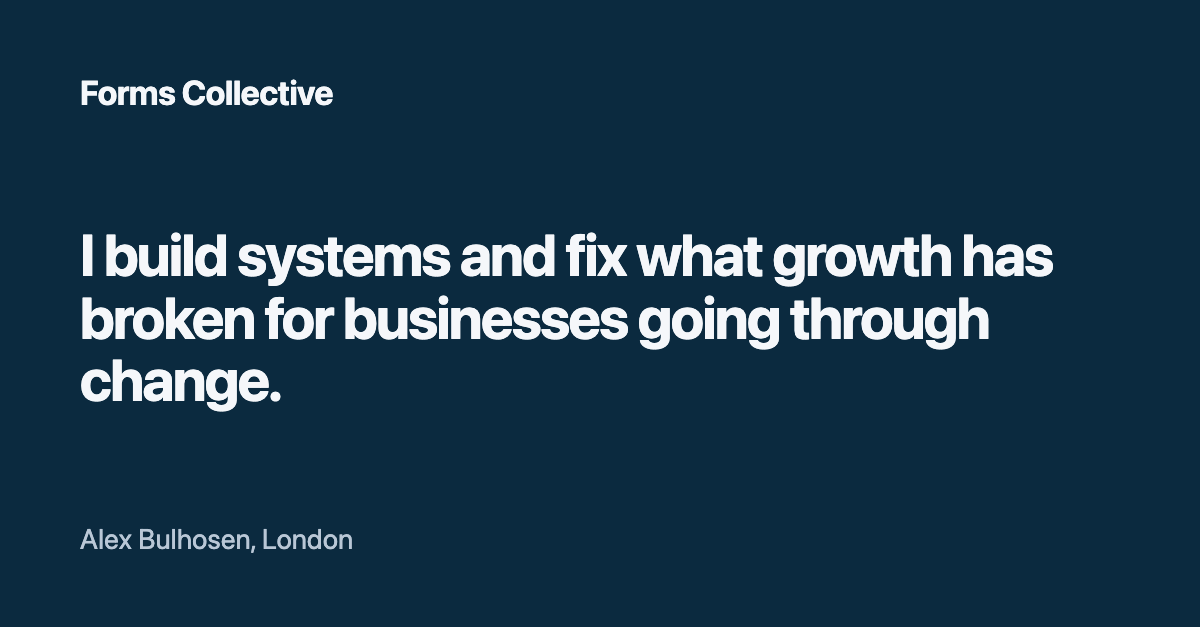
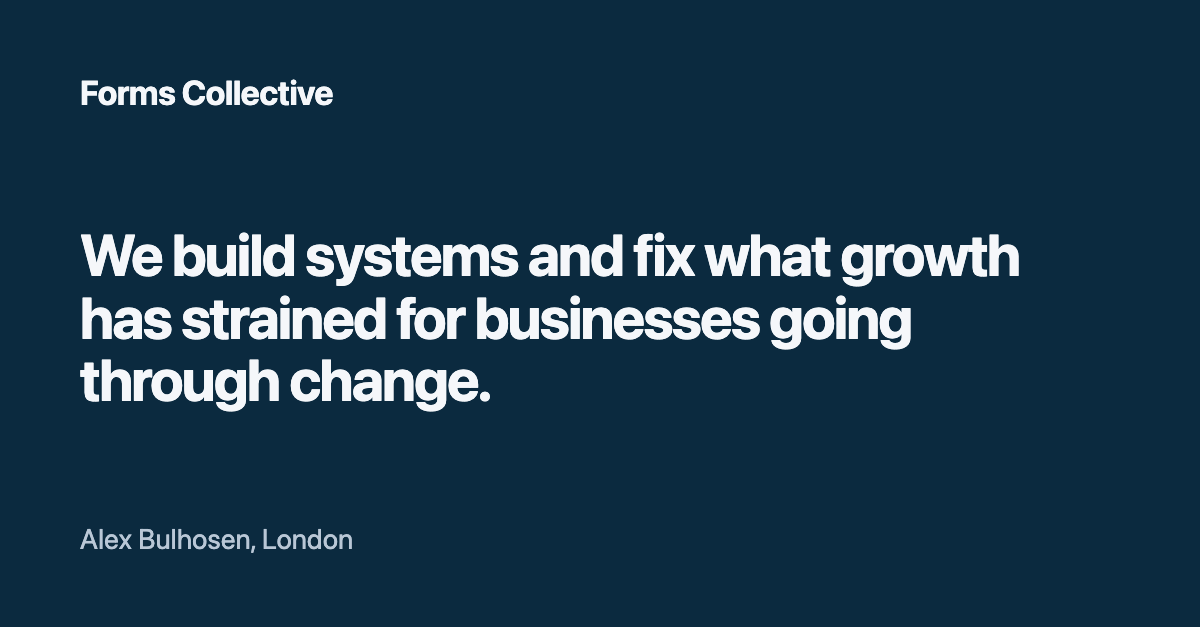
Draft: company voice, 'strained' in the H1, plan-led working-together block, smaller legal footer (AB, 2026-10-22)

Changed region(s): [[0.0617, 0.3636, 0.8942, 0.5758], [0.0617, 0.5758, 0.4008, 0.6667]]

diff --git a/index.html b/index.html
@@ -6,7 +6,7 @@
     <title>Forms Collective - Alex Bulhosen</title>
     <meta
       name="description"
-      content="Alex Bulhosen builds systems and fixes what growth has broken for businesses going through change, in regulated financial services and healthtech. Interim, fixed-term and fractional, through Forms Collective. London."
+      content="Forms Collective builds systems and fixes what growth has strained for businesses going through change, in regulated financial services and healthtech. Alex Bulhosen's company: interim, fixed-term and fractional. London."
     />
     <link rel="canonical" href="https://formscollective.co/" />
     <link rel="icon" href="favicon.svg" type="image/svg+xml" />
@@ -18,7 +18,7 @@
     <meta property="og:title" content="Forms Collective - Alex Bulhosen" />
     <meta
       property="og:description"
-      content="I build systems and fix what growth has broken for businesses going through change. Regulated financial services and healthtech. London."
+      content="We build systems and fix what growth has strained for businesses going through change. Regulated financial services and healthtech. London."
     />
     <meta property="og:image" content="https://formscollective.co/og.png" />
     <meta property="og:image:width" content="1200" />
@@ -41,22 +41,21 @@
         <div class="pill">Alex Bulhosen, London</div>
 
         <h1 class="hero-title">
-          I build systems and fix what growth has broken for businesses going through change.
+          We build systems and fix what growth has strained for businesses going through change.
         </h1>
 
         <div class="hero-content">
           <div>
             <p class="lede">
-              The work has been in regulated financial services and healthtech, as COO and director
-              of operations, where the FCA or the NHS sets the boundary a change has to fit inside.
+              Forms Collective is Alex Bulhosen's company. He has been COO and director of operations
+              in regulated financial services and healthtech, where the FCA or the NHS sets the
+              boundary a change has to fit inside.
             </p>
-            <p class="lede">
-              Forms Collective is the company I work through, on interim, fixed-term and fractional
-              terms.
+            <p class="lede">We work on interim, fixed-term and fractional terms.
             </p>
 
             <div class="cta-row">
-              <a class="btn btn-primary" href="mailto:hello@formscollective.co">Email me</a>
+              <a class="btn btn-primary" href="mailto:hello@formscollective.co">Get in touch</a>
               <a class="btn btn-secondary" href="https://www.linkedin.com/in/alex-bulhosen">LinkedIn</a>
             </div>
           </div>
@@ -111,7 +110,8 @@
       <section class="section" id="terms">
         <h2>Working together</h2>
         <p class="terms">
-          Fractional: [?] days a week. Interim and fixed-term: [?]. Available from [?].
+          Fractional work runs on set days each week. Interim and fixed-term work is full-time, for
+          a defined brief. Each starts with a plan sequenced to agreed 3-month and 6-month states.
         </p>
       </section>
 
@@ -123,7 +123,7 @@
       </section>
 
       <footer class="site-footer">
-        <p class="footer-meta">
+        <p class="footer-meta footer-legal">
           Forms Collective Ltd. Registered in England and Wales, company number 16997377.
           Registered office: 27 Birchdale Road, London E7 8AS.
         </p>

diff --git a/styles.css b/styles.css
@@ -279,3 +279,5 @@ a:hover{opacity:0.85}
 }
 
 .lede + .lede{margin-top:12px}
+
+.footer-legal{font-size:12px}
